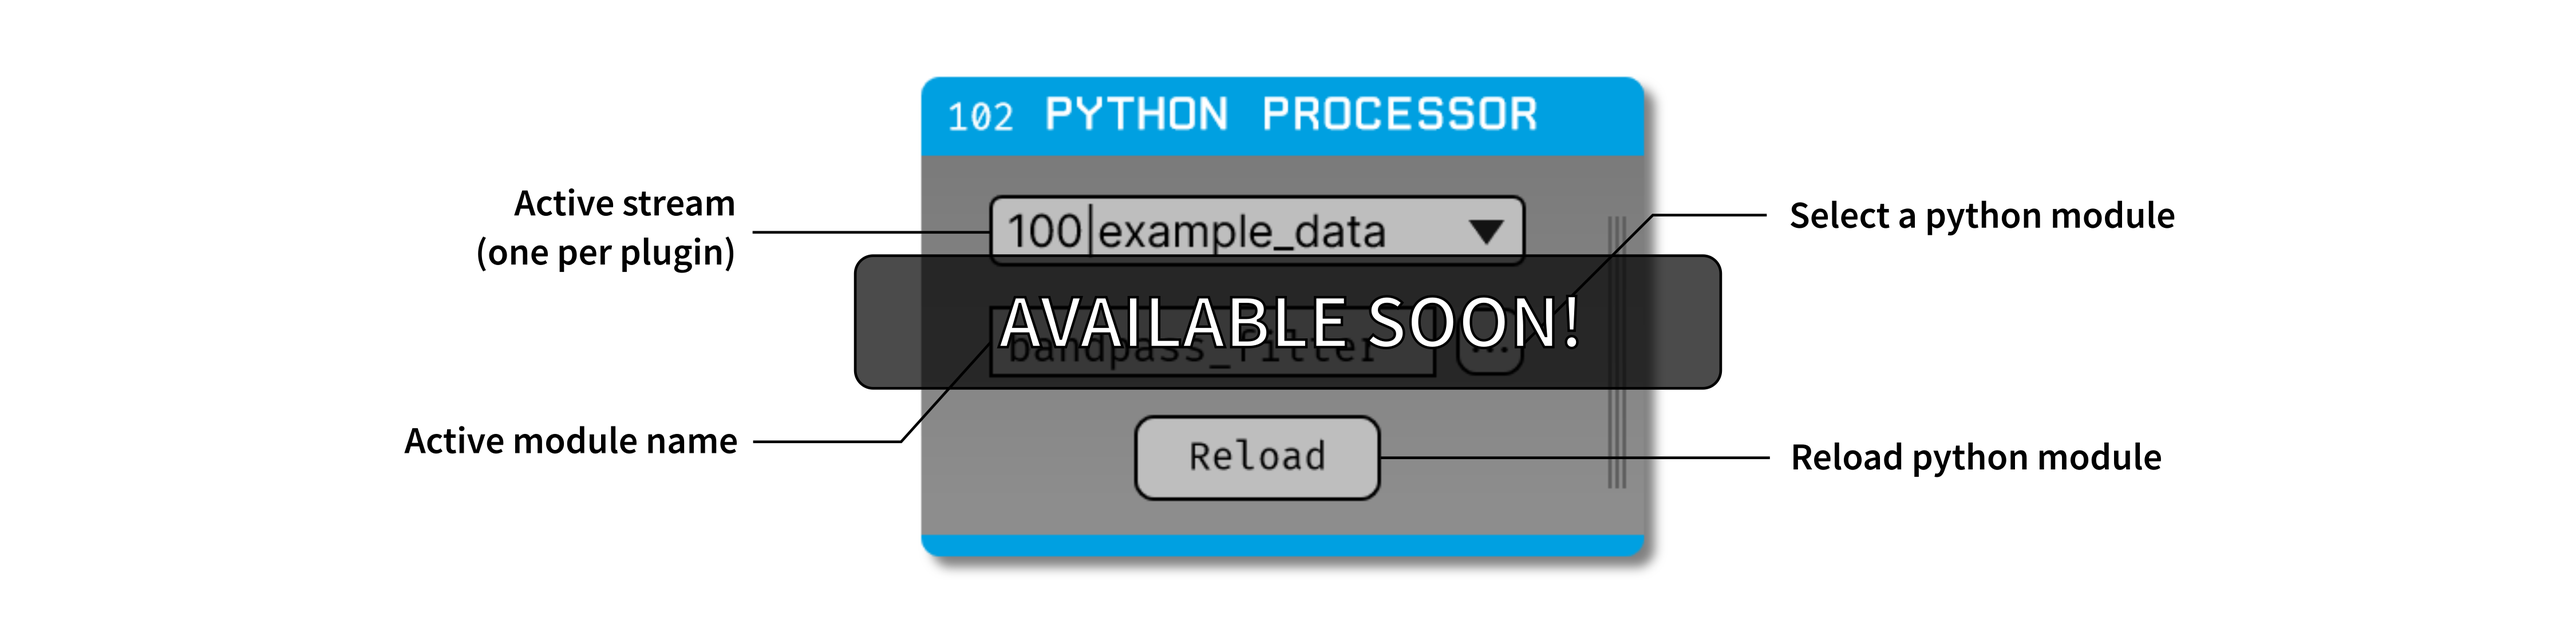
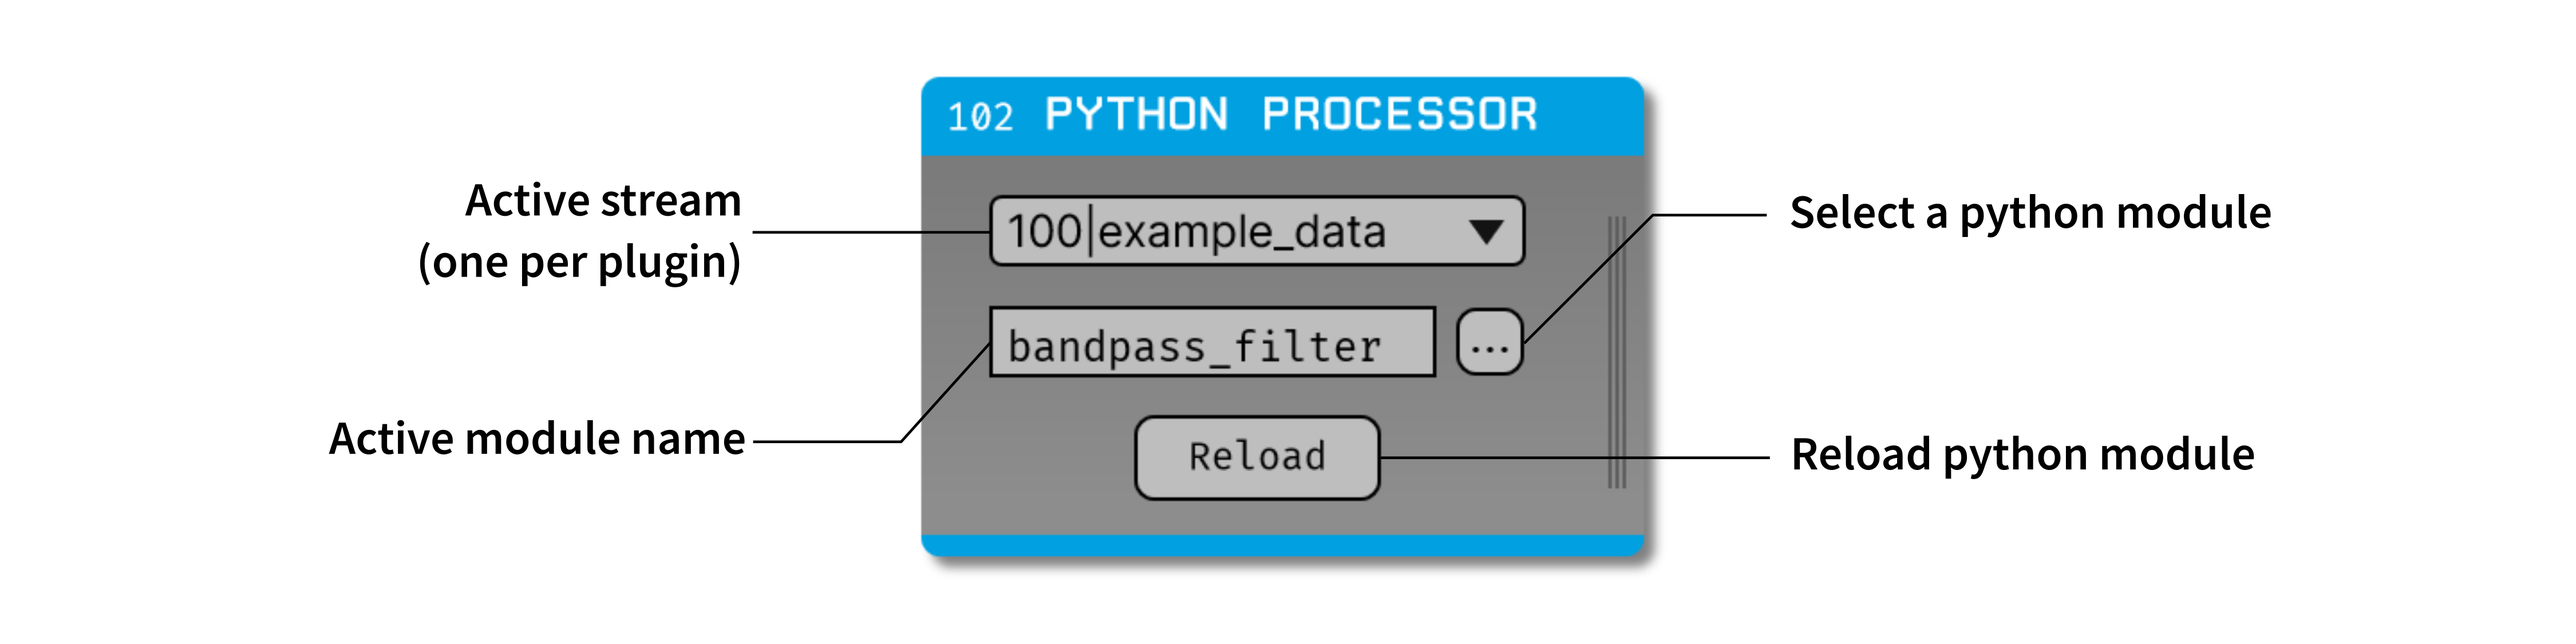
Update Python Processor documentation and images

diff --git a/source/User-Manual/Plugins/Python-Processor.rst b/source/User-Manual/Plugins/Python-Processor.rst
@@ -22,16 +22,17 @@ Python Processor
 Installing and upgrading
 ###########################
 
-The Python Processor is not yet released for version 1.0 of the Open Ephys GUI. An announcement will be made via Discord/Slack when it's available for download via Plugin Installer.
+The Python Processor plugin is not included by default in the Open Ephys GUI. To install, use ctrl-P or ⌘P to open the Plugin Installer, browse to the "Python Processor" plugin, and click the "Install" button.
+
+The Plugin Installer also allows you to upgrade to the latest version of this plugin, if it's already installed.
+
 
 Setting up a Python environment
 ####################################
 
 This plugin must be able to find a local installation of Python version **3.10** with :code:`numpy` installed correctly.
 
-To avoid conflicts with other Python installations, we recommend using `Conda <https://docs.conda.io/projects/conda/en/stable/index.html>`__ to manage your Python environments. You can install Conda either using Miniconda or Anaconda by following the instructions `here <https://docs.conda.io/projects/conda/en/stable/user-guide/install/download.html>`__. More information on how to use Conda can be found `here <https://docs.conda.io/projects/conda/en/stable/user-guide/getting-started.html>`__.
-
-.. important:: On macOS, conda needs to be installed using the x86_64 Miniconda / Anaconda installer. 
+To avoid conflicts with other Python installations, we recommend using `Conda <https://docs.conda.io/projects/conda/en/stable/index.html>`__ to manage your Python environments. You can install Conda either using Miniconda or Anaconda by following the instructions `here <https://docs.conda.io/projects/conda/en/stable/user-guide/install/index.html>`__. More information on how to use Conda can be found `here <https://docs.conda.io/projects/conda/en/stable/user-guide/getting-started.html>`__.
 
 To create a new Conda environment that uses Python 3.10, enter the following :code:`conda` command in your Anaconda prompt (Windows) or Terminal (Linux and macOS):
 
@@ -51,32 +52,26 @@ After this, :code:`numpy` needs to be installed in the same environment as follo
 
    conda install numpy
 
-.. important:: On Windows, if you use :code:`pip` to install Python packages, the plugin will fail to load your Python module. We are still investigating the cause of this issue.
-
 
 Setting the Python Interpreter Path
 -------------------------------------
 
-Once a dedicated Python 3.10 Conda environment has been created, the plugin is ready to be loaded into any desired signal chain. As soon as the plugin is dropped into the signal chain, it asks for the path to Python Home directory, which is where the Python Interpreter is located. This allows the plugin to be flexible in terms of which Python libraries to use during runtime, and not rely on the system PATH to figure out the Python Home location. 
+After creating a dedicated Python 3.10 Conda environment, you can add the plugin to any signal chain. When inserted, the plugin prompts you to select the Python Home directory—the location of the Python interpreter. Providing this path lets the plugin use libraries from a specific environment at runtime, without relying on the system PATH.
 
-When using Conda, this path is usually where the Conda environment got created. Some examples of where it may be located: 
+With Conda, this is typically the path to the environment's Python interpreter inside Conda's installation directory. For example, if you created an environment named :code:`oe-python-plugin`, the path would be:
 
-* Windows: :code:`C:\\Users\\<username>\\miniconda3` or :code:`C:\\miniconda3`
+* Windows: :code:`C:\\Users\\<username>\\miniconda3\\envs\\oe-python-plugin`
+* macOS - :code:`~/miniconda3/envs/oe-python-plugin`
+* Linux - :code:`~/miniconda3/envs/oe-python-plugin`
 
-* macOS - :code:`~/miniconda3` or :code:`/Users/<username>/miniconda3`
+If you installed Anaconda instead of Miniconda, the folder may be named :code:`Anaconda` or :code:`Anaconda3`.
 
-* Linux - :code:`~/miniconda3` or :code:`/home/<username>/miniconda3`
-
-The Python image in a Conda environment called “oe-python-plugin” might be in a location such as :code:`${USERHOME}\\miniconda3\\envs\\oe-python-plugin`
-
-If you have installed Anaconda instead of Miniconda, the folder might be named :code:`Anaconda` or :code:`Anaconda3`.
-
-Once the path is selected, the plugin should load into the signal chain successfully. If it fails to load the Python Interpreter, then it will ask for the PATH to Python Home again. This means that either the provided PATH was incorrect, or an incompatible version of Python was installed (i.e., not 3.10). If this happens, it is recommended to close and relaunch the GUI to reset the PATH variables.
+After you select the path, the plugin should load into the signal chain. If it cannot load the interpreter, it will prompt for the Python Home path again—this usually indicates an incorrect path or an incompatible Python version (not 3.10). If the problem persists, close and relaunch the GUI to reset the PATH variables.
 
 Creating & loading a Python Module
 ####################################
 
-Once the plugin is loaded into the signal chain, a Python module (script) needs to be loaded into the GUI. This module should take the same form as the `processor template <https://github.com/open-ephys-plugins/python-processor/blob/main/Modules/template/processor_template.py>`__ provided in the plugin's GitHub repository. The :code:`PyProcessor` class is designed to expose the following functions to the Python module to allow interaction with the incoming data:  
+After the plugin is added to the signal chain, you must load a Python module (script) into the GUI. This script should follow the structure of the `processor template <https://github.com/open-ephys-plugins/python-processor/blob/main/Modules/template/processor_template.py>`__ available in the plugin's GitHub repository. The :code:`PyProcessor` class provides the following functions to the Python module, enabling interaction with incoming data:
 
 .. py:method:: __init__(processor, num_channels, sample_rate)
 
@@ -136,24 +131,29 @@ Using this template, any type of data processing can be done in Python in real-t
 
 .. Note:: Pay careful attention to the latency introduced by processing data in Python, especially with high-channel-count data.
 
+----------------------
 
-There is also a way to send TTL events back from Python to C++. These events will be added to the event buffer for the downstream processors to handle. It is possible using a C++ function exposed to the Python module via an embedded module called :code:`oe_pyprocessor`.
+You can also send TTL events from Python back to C++. These events are added to the event buffer and can be processed by downstream plugins. This is accomplished using a C++ function exposed to Python through the embedded :code:`oe_pyprocessor` module.
 
 .. py:method:: add_python_event(line, state)
-   
-   Send TTL event from Python to C++
-   
+
+   Sends a TTL event from Python to C++.
+
    :param int line: event line number [0-255]
    :param bool state: event state True (ON) or False (OFF)
 
-To use this function, the :code:`oe_pyprocessor` module needs to be imported inside the script and then the C++ function can be invoked by using the processor object provided in the :py:meth:`__init__` method, like this: :code:`self.processor.add_python_event(line, state)`
+To use this function, import the :code:`oe_pyprocessor` module in your script. Then, call the C++ function using the processor object provided in the :py:meth:`__init__` method, for example: :code:`self.processor.add_python_event(line, state)`
 
-An example script is provided in the plugin's GitHub repository in the form of a `Butterworth Bandpass filter <https://github.com/open-ephys-plugins/python-processor/blob/main/Modules/examples/bandpass_filter.py>`__. This filter is the same as the one used in the GUI's built-in Filter Node plugin.
+----------------------
+
+An example script is provided in the plugin's GitHub repository in the form of a `Butterworth Bandpass filter <https://github.com/open-ephys-plugins/python-processor/blob/main/Modules/examples/bandpass_filter.py>`__. This filter is the same as the one used in the GUI's built-in :ref:`bandpassfilter` plugin.
 
 Limitations
 ######################
 
 * Unlike continuous data and events, sending spikes back from Python is not currently possible.
+
+* With increasing channel counts, the processing latency may also increase, potentially affecting real-time performance.
 
 * Only one instance of the plugin is allowed at a time in a signal chain. Having multiple instances of the plugin in the same signal chain will result in random crashes. 
 
